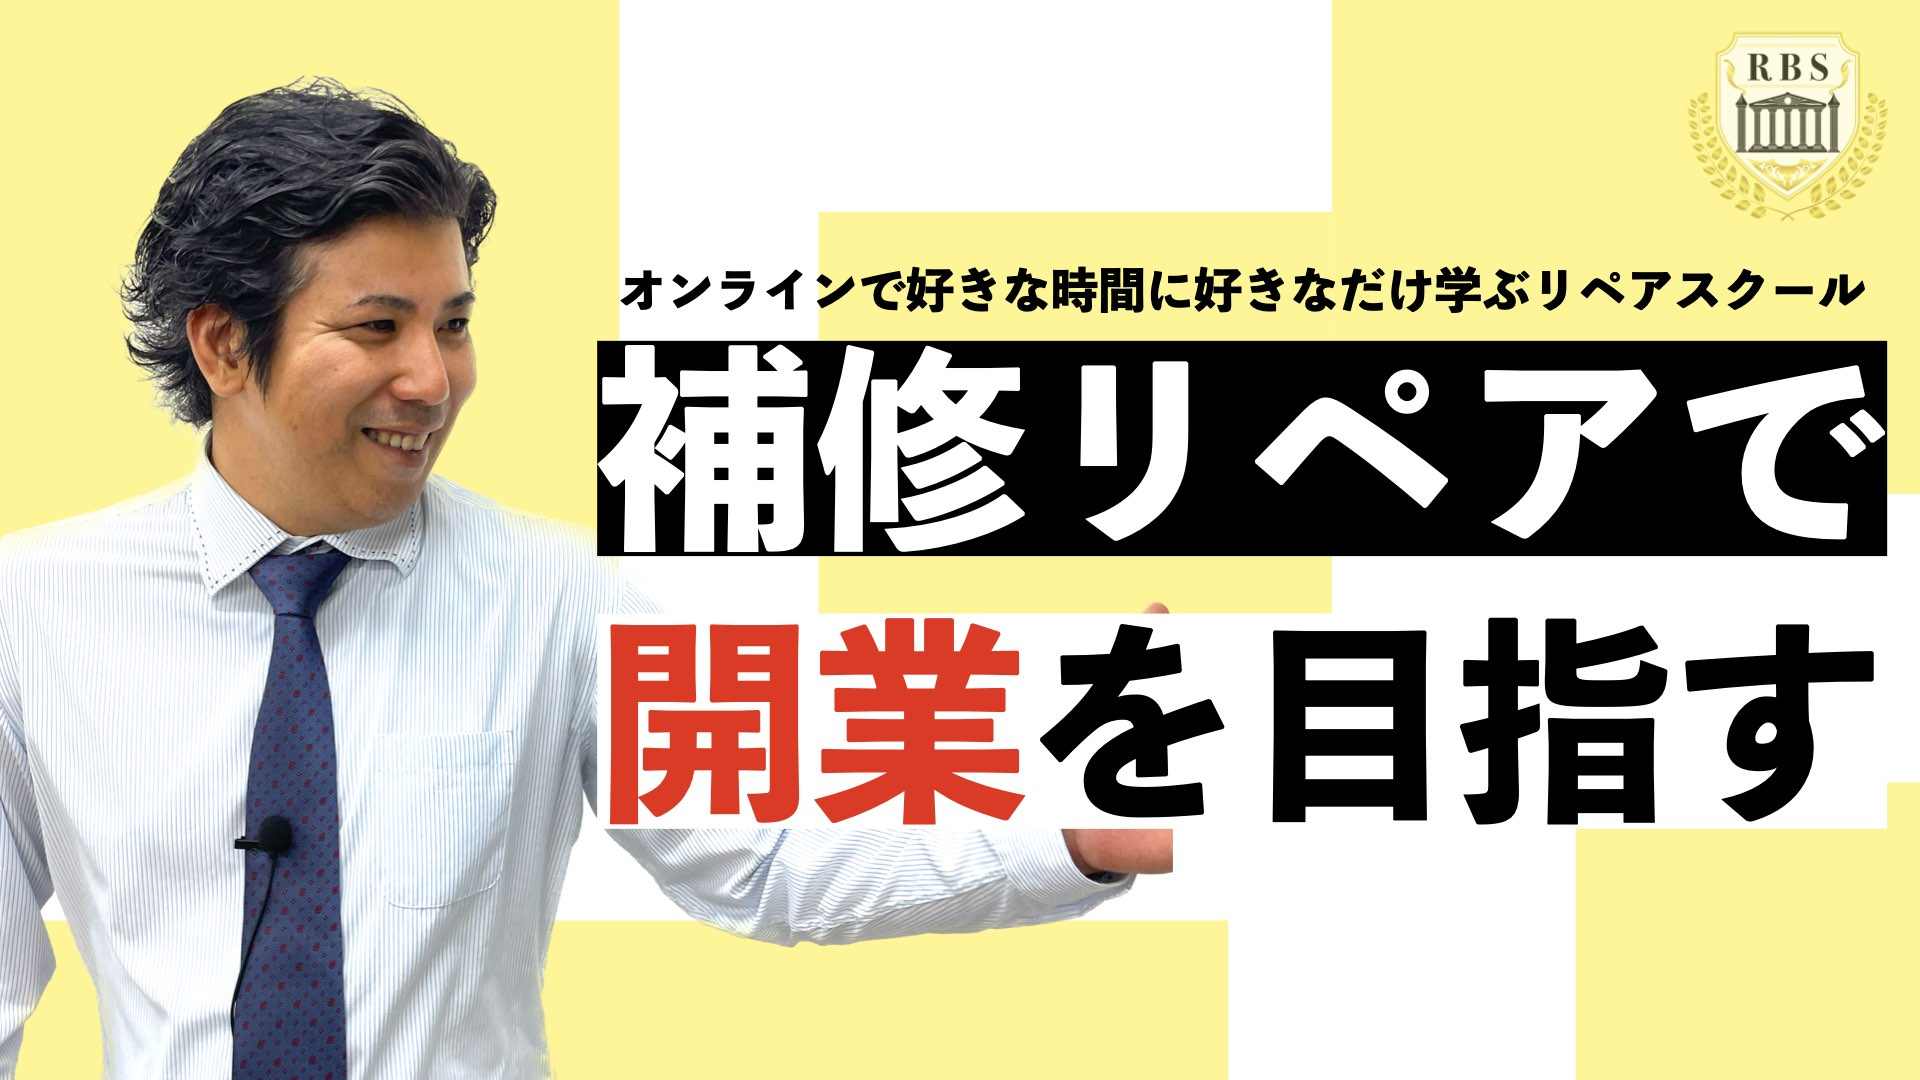
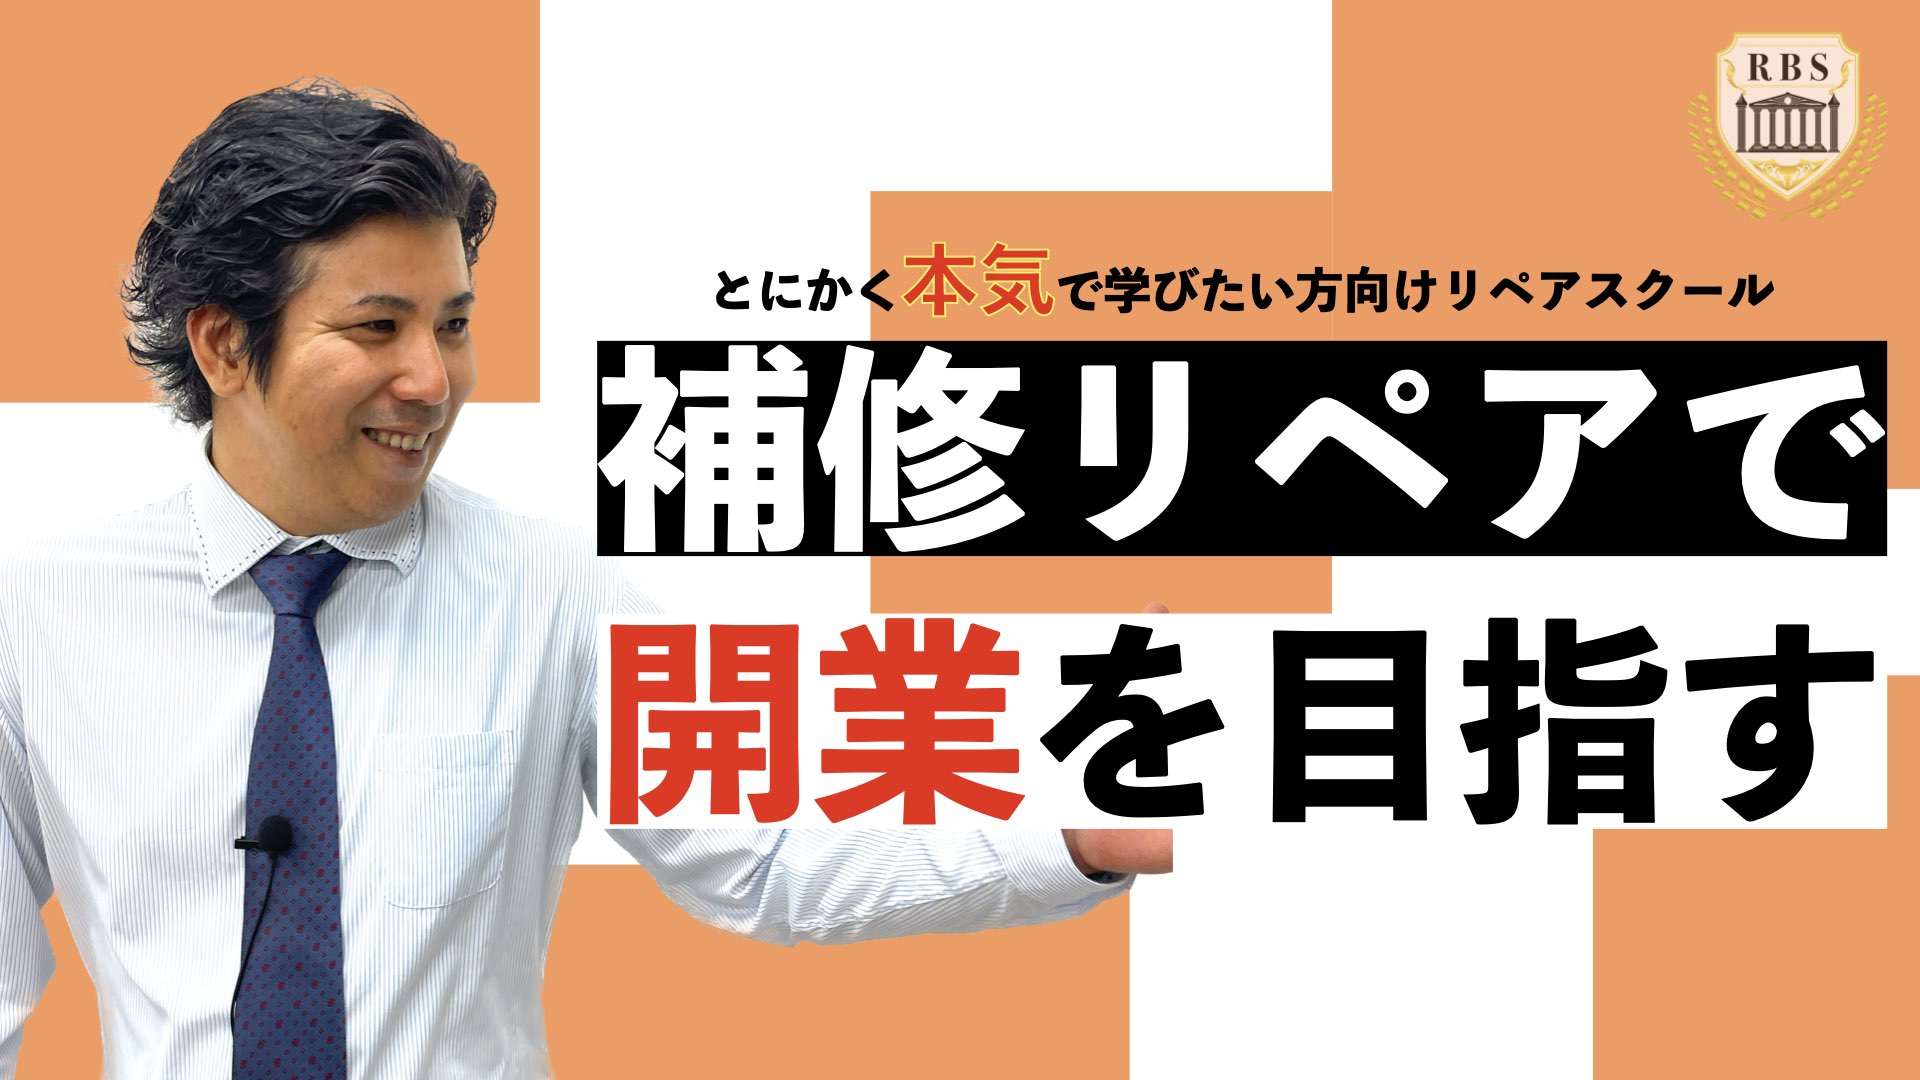
20240716 LP up mv&youtube

diff --git a/index.html b/index.html
@@ -202,133 +202,78 @@
             </div>
           </div>
         </section>
-        <!-- <section id="earn">
-          <div class="earn">
-            <h2>
-              リペアリフォームスペシャリストは<br
-                class="pc"
-              />なぜ他社よりも圧倒的に稼ぐことができるのか
-            </h2>
-            <div class="earn-box">
-              <p class="pb20">
-                <strong
-                  ><span class="line1"
-                    >リペアスクール（講座）といっても様々なものがあります。</span
-                  ></strong
-                >
-              </p>
-              <p class="pb30">
-                リペアリフォームスペシャリスト育成講座受講生の中には40代50代60代で手に職を付けたい転職を考えている方も多数おられます。
-              </p>
-              <p class="pb30">
-                そのようなタイミングで、リペアリフォームスペシャリスト育成講座に出会った"あなた"はとても幸運です。
-              </p>
-              <p class="pb30">
-                リペアスクール（講座）といっても様々なものがあります。
-              </p>
-              <p class="pb30">
-                他社では2、3日ほどの短期講座で、リペアが「一応できるようになる？」という講座を、よく目にします。
-              </p>
-              <p class="pb30">
-                <span class="red"
-                  >しかし、これだけで現場に出るのは、<br />ハッキリ言って無理です。</span
-                >
-              </p>
-              <p class="pb30">
-                まずリペアというものは、何度も練習を積み重ねないと、本番で満足できる結果は100％出ません。
-              </p>
-              <p class="pb30">
-                しかも全く同じ傷はありません。同じような補修事例を何度も何度も繰り返し、技術を磨いていかなければなりません。
-              </p>
-              <p class="pb30">
-                仮に"ごまかし"で、補修できるようになったとしても教えてくれている親方の、殆どが人工（にんく）マーケットの方なのでどれだけ働いても月収80～90万円が限度、そして当然その親方以上の収入を得ることは難しいでしょう。
-              </p>
-              <div class="waku_gray pb30">
-                ※人工（にんく）マーケットとは･･･補修内容に限らず、決められた時間内で作業をする補修のやり方。1人を1人工と呼び、報酬は1日2～3万円程。
-              </div>
-              <p class="pb30">
-                1人工の仕事で2～3万円程度しか稼くことができないのですから、収益に限界があるのは火を見るよりも明らかですね。
-              </p>
-              <p class="pb30">
-                一方、リペアリフォームスペシャリスト育成講座では、<span
-                  class="line1"
-                  >9ヶ月間という長期スパンで練習を積み重ね、毎回最高峰の技術を伝授され、徹底的に技術力を磨くことになります。</span
-                >
-              </p>
-              <p class="pb30">
-                またそれだけでなく、 リペア業をする上で最も重要な<span
-                  class="line1 big"
-                  >『3本の柱』</span
-                >を伝授します。（これは直接加賀原から聞いてください）
-              </p>
-              <p class="pb30">
-                このように徹底的にリペアを追求することで、圧倒的な技術力を習得することが可能となり、他社(人工マーケット)では難しいとされる、従量制マーケットで活躍する事ができるようになります。
-              </p>
-
-              <p class="pb30">
-                そして、他社の人工マーケットと比べ、<span class="line1 big"
-                  >1.5～2倍以上の高報酬を得ることができる</span
-                >というわけです。
-              </p>
-              <p class="pb30">
-                リペアリフォームスペシャリスト育成講座を受講すれば、
-                目の前でお客様に喜ばれ、感動され、そして高収入を得る仕組みを確立することができるのです。
-              </p>
-            </div>
-          </div>
-        </section> -->
 
         <section id="movies">
           <div class="movies">
             <div class="movies-head">
               <b-icon icon="video"></b-icon>
               <h2>
-                まずは当技法を使った神業リペア事例を<br
+                RBSでYouTubeチャンネルやっています<br
                   class="pc"
-                />ご自身の目で確かめてください
+                />リペア技術や経営に<br
+                  class="pc"
+                />必要な考え方の発信をしています
               </h2>
             </div>
             <ul>
               <li>
-                <video
-                  src="images/movies/main.mp4"
-                  autoplay=""
-                  muted=""
-                  loop=""
-                  playsinline=""
-                ></video>
-                <h3>フローリング傷補修<br /><span>フローリング</span></h3>
+                <iframe
+                  src="https://www.youtube.com/embed/la1-CosJ6n4"
+                  title="リペア屋にとって技術よりも大事なこととは？！"
+                  frameborder="0"
+                  allow="accelerometer; autoplay; clipboard-write; encrypted-media; gyroscope; picture-in-picture; web-share"
+                  referrerpolicy="strict-origin-when-cross-origin"
+                  allowfullscreen
+                ></iframe>
+
+                <h3>リペア屋にとって技術よりも大事なこととは？！</h3>
               </li>
               <li>
-                <video
-                  src="images/movies/main.mp4"
-                  autoplay=""
-                  muted=""
-                  loop=""
-                  playsinline=""
-                ></video>
-                <h3>フローリング部分補修<br /><span>フローリング</span></h3>
+                <iframe
+                  src="https://www.youtube.com/embed/nQQEjSM2PNQ"
+                  title="ガルバリウム鋼板リペアの全てをお見せします！"
+                  frameborder="0"
+                  allow="accelerometer; autoplay; clipboard-write; encrypted-media; gyroscope; picture-in-picture; web-share"
+                  referrerpolicy="strict-origin-when-cross-origin"
+                  allowfullscreen
+                ></iframe>
+                <h3>ガルバリウム鋼板リペアの全てをお見せします！</h3>
               </li>
 
               <li>
-                <video
-                  src="images/movies/main.mp4"
-                  autoplay=""
-                  muted=""
-                  loop=""
-                  playsinline=""
-                ></video>
-                <h3>フローリング傷補修<br /><span>フローリング</span></h3>
+                <iframe
+                  src="https://www.youtube.com/embed/aA-xHCrqtf0"
+                  title="リペアFCの実態"
+                  frameborder="0"
+                  allow="accelerometer; autoplay; clipboard-write; encrypted-media; gyroscope; picture-in-picture; web-share"
+                  referrerpolicy="strict-origin-when-cross-origin"
+                  allowfullscreen
+                ></iframe>
+                <h3>リペアFCの実態</h3>
               </li>
               <li>
-                <video
-                  src="images/movies/main.mp4"
-                  autoplay=""
-                  muted=""
-                  loop=""
-                  playsinline=""
-                ></video>
-                <h3>フローリング部分補修<br /><span>フローリング</span></h3>
+                <iframe
+                  src="https://www.youtube.com/embed/4jnk-5J4LZc"
+                  title="【フローリングリペア補修】方向変色を攻略する技法①"
+                  frameborder="0"
+                  allow="accelerometer; autoplay; clipboard-write; encrypted-media; gyroscope; picture-in-picture; web-share"
+                  referrerpolicy="strict-origin-when-cross-origin"
+                  allowfullscreen
+                ></iframe>
+                <h3>【フローリングリペア補修】<br />方向変色を攻略する技法①</h3>
+              </li>
+              <li>
+                <iframe
+                  src="https://www.youtube.com/embed/BE53CHLcTNQ"
+                  title="【作業ノーカット】これさえ覚えておけばどんな傷でも直せちゃう！"
+                  frameborder="0"
+                  allow="accelerometer; autoplay; clipboard-write; encrypted-media; gyroscope; picture-in-picture; web-share"
+                  referrerpolicy="strict-origin-when-cross-origin"
+                  allowfullscreen
+                ></iframe>
+                <h3>
+                  【作業ノーカット】<br />これさえ覚えておけばどんな傷でも直せちゃう！
+                </h3>
               </li>
             </ul>
           </div>
@@ -432,89 +377,17 @@
           </div>
         </section>
 
-        <!-- <section id="message">
-          <span class="sankaku_w"></span>
-          <div class="message">
-            <div class="eng">Message</div>
-            <h2>最後のメッセージ</h2>
-            <div class="message-box contents">
-              <p>
-                最後に大事なところなのでお伝えしますが、<br /><br /><b
-                  class="line1"
-                  >人工のマーケットと従量制のマーケット（箇所に対して価値の提供する）では『技術力・マインド・報酬額』に天と地の差が出てしまいます。</b
-                ><br /><br />
-              </p>
-              <p>
-                人工マーケットでは、時間内に精一杯出来ることをする。<br />ただし、自分の技術力が及ばない場合、「これが限界です」と言えば通用します。<br /><br />
-              </p>
-              <p>
-                それに対して、<br /><br />従量制のマーケットは、エンドユーザー主体のマーケットでもあることから、<b
-                  class="line1"
-                  >その補修した箇所が「どこにあったか探せないレベル」の仕上がりを要求されます。</b
-                ><br /><br />
-              </p>
-              <p>
-                <b class="line1"
-                  >あなたが従量制マーケットで”活躍できるかどうか”</b
-                >
-                は、<br class="pc" /><b class="line1"
-                  >あなたがそのマーケットに対応出来る様に、私たちが”教えられるかどうか”</b
-                >
-                です。<br /><br />
-              </p>
-              <p>人工マーケットの経験しかない親方には当然教えられません。</p>
-              <div class="message-box">
-                <h3>
-                  ■他社と売上（人工マーケットと従量制マーケット）の違い■<br />
-                </h3>
-                <h4>＜他社(人工のマーケット)の場合＞</h4>
-                <p>1日約20,000～30,000円 （時間に対する報酬）</p>
-                <h4>＜当社(従量制マーケット)の場合＞</h4>
-                <p>1箇所約50,000～100,000円 （技術に対する報酬）</p>
-                <h3>■月間収益の違い■<br /></h3>
-                <h4>＜他社(人工マーケット)の場合＞</h4>
-                <p>1ヶ月間休み無しで毎日働いて60万～90万程度</p>
-                <h4>＜当社(従量制マーケット)の場合＞</h4>
-                <p>2日に1回休み15日間働いて75万～150万程度</p>
-              </div>
-
-              <p>リフォームの需要は、6兆円とも言われてます。<br /><br /></p>
-              <p>
-                その中で少なく見ても恐らく2兆円程度はリペアで提案できる内容だと思われます。<br /><br />
-              </p>
-              <p>
-                時代の流れから見ても今後急激に成長していくであろうこのリペア業界で、生涯稼ぎ続けられる技術を習得するチャンスが目の前にあります。<br /><br />
-              </p>
-              <p>
-                加賀原から『3本の柱』を聞き、人工マーケットでは決して得られない、リペア業界最高峰のノウハウを習得してください。<br /><br />
-              </p>
-              <p>
-                10年位前、あるハウスメーカーから技術を買いたいという話を持ち掛けられたとき、1000万でも教えられないとお断りしたことがあります。<br /><br />
-              </p>
-              <p>
-                その当時と比べ、今のほうが内容もかなり充実していて、それ以上の価値があると自負しています。<br /><br />
-              </p>
-              <p>
-                全ては、タイミングと御縁です。<br /><br />縁を感じる方は、絶対に見逃さないでください。<br /><br />下記のLINE@に登録して、個別説明会の予約をして、加賀原から直接話を聞いてください。<br /><br />それでは、個別説明会でお会いしましょう。
-              </p>
-              <p class="right">湧川琢也</p>
-            </div>
-          </div>
-        </section> -->
-
         <section id="cta">
           <div class="cta">
-            <h2>
+            <!-- <h2>
               今期のリペアリフォームスペシャリスト育成講座は<br />
               募集定員に達したため、募集を終了させていただきました
             </h2>
-            <hr />
+            <hr /> -->
             <p class="pt50">
-              次回募集案内を御希望の方は、<br />
-              公式LINEをともだち追加のうえ<br /><br />
+              リペアに関する情報にご興味のある方は、<br />
+              公式LINEをともだち追加をお願いします<br /><br />
             </p>
-            <h3 class="red big">『募集案内希望』</h3>
-            <p>と、メッセージを送ってください。<br /><br /></p>
             <img src="images/common/lp_qrcode.png" alt="line_qr" />
             <p class="line">QRコードを読み取って<br />公式LINEをともだち追加</p>
             <p>＜運営企業＞</p>

diff --git a/scss/common-style.scss b/scss/common-style.scss
@@ -949,8 +949,12 @@ h2 {
             color: $orange;
           }
         }
-        video {
+        // video {
+        //   width: 100%;
+        // }
+        iframe {
           width: 100%;
+          height: 30rem;
         }
       }
     }

diff --git a/css/common-style.css b/css/common-style.css
@@ -1000,8 +1000,9 @@ h2 {
   font-weight: normal;
   color: #ff8800;
 }
-#movies .movies ul li video {
+#movies .movies ul li iframe {
   width: 100%;
+  height: 30rem;
 }
 
 #needs {
